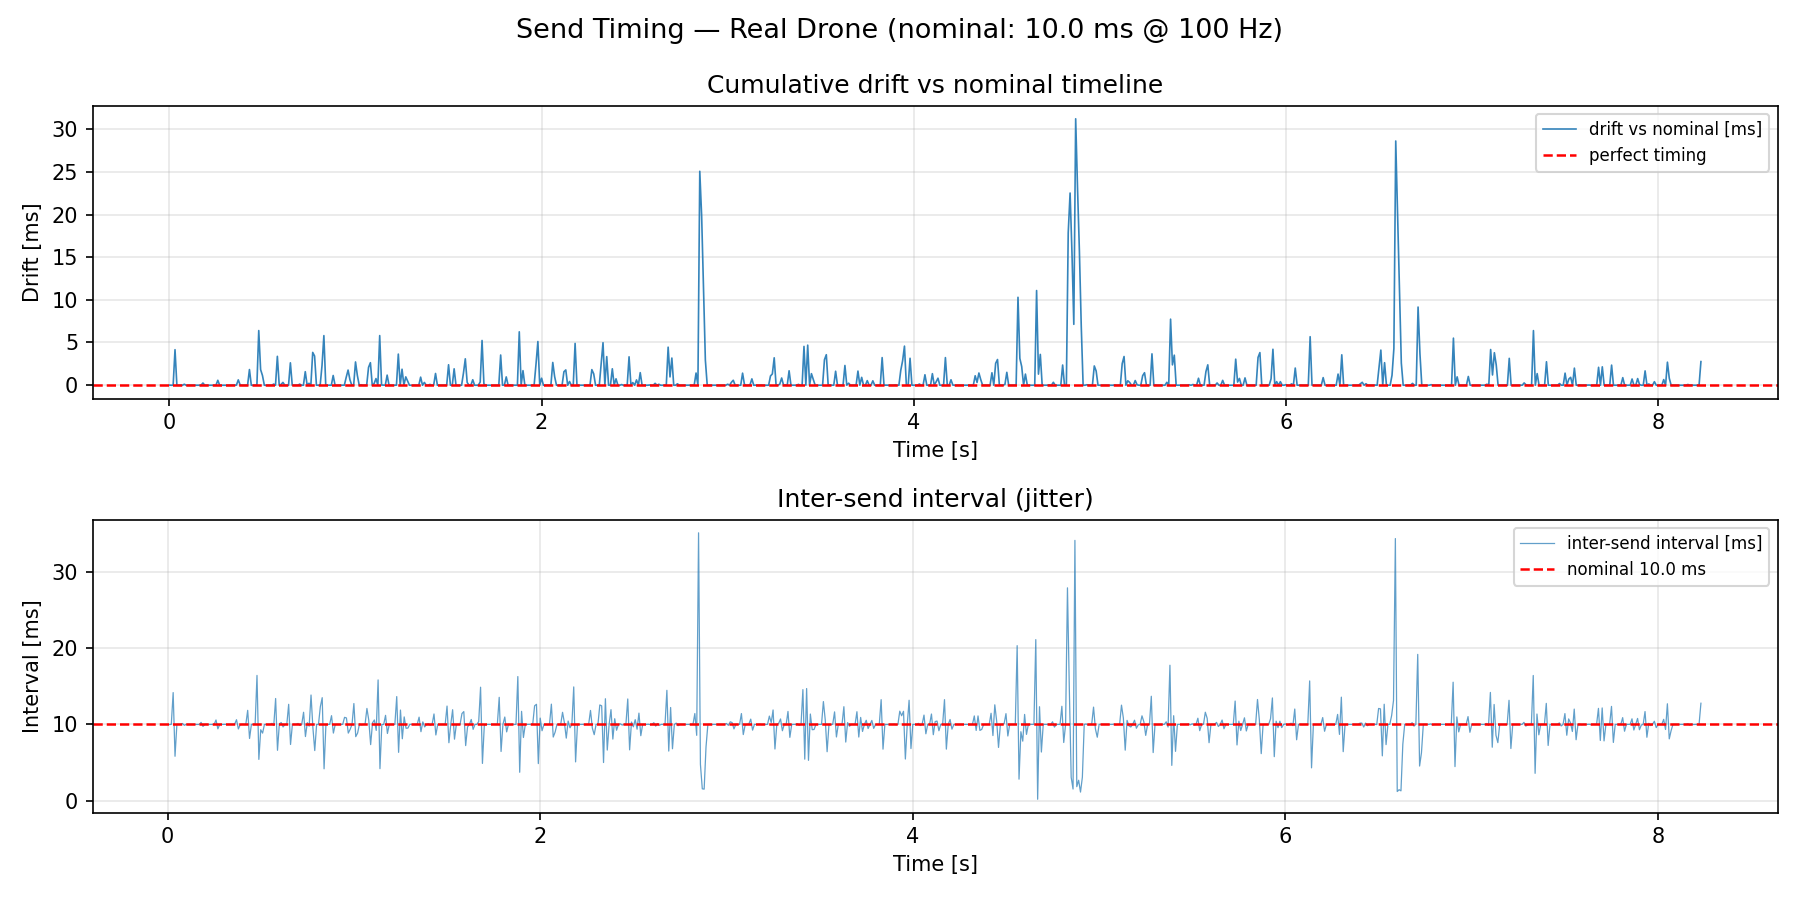
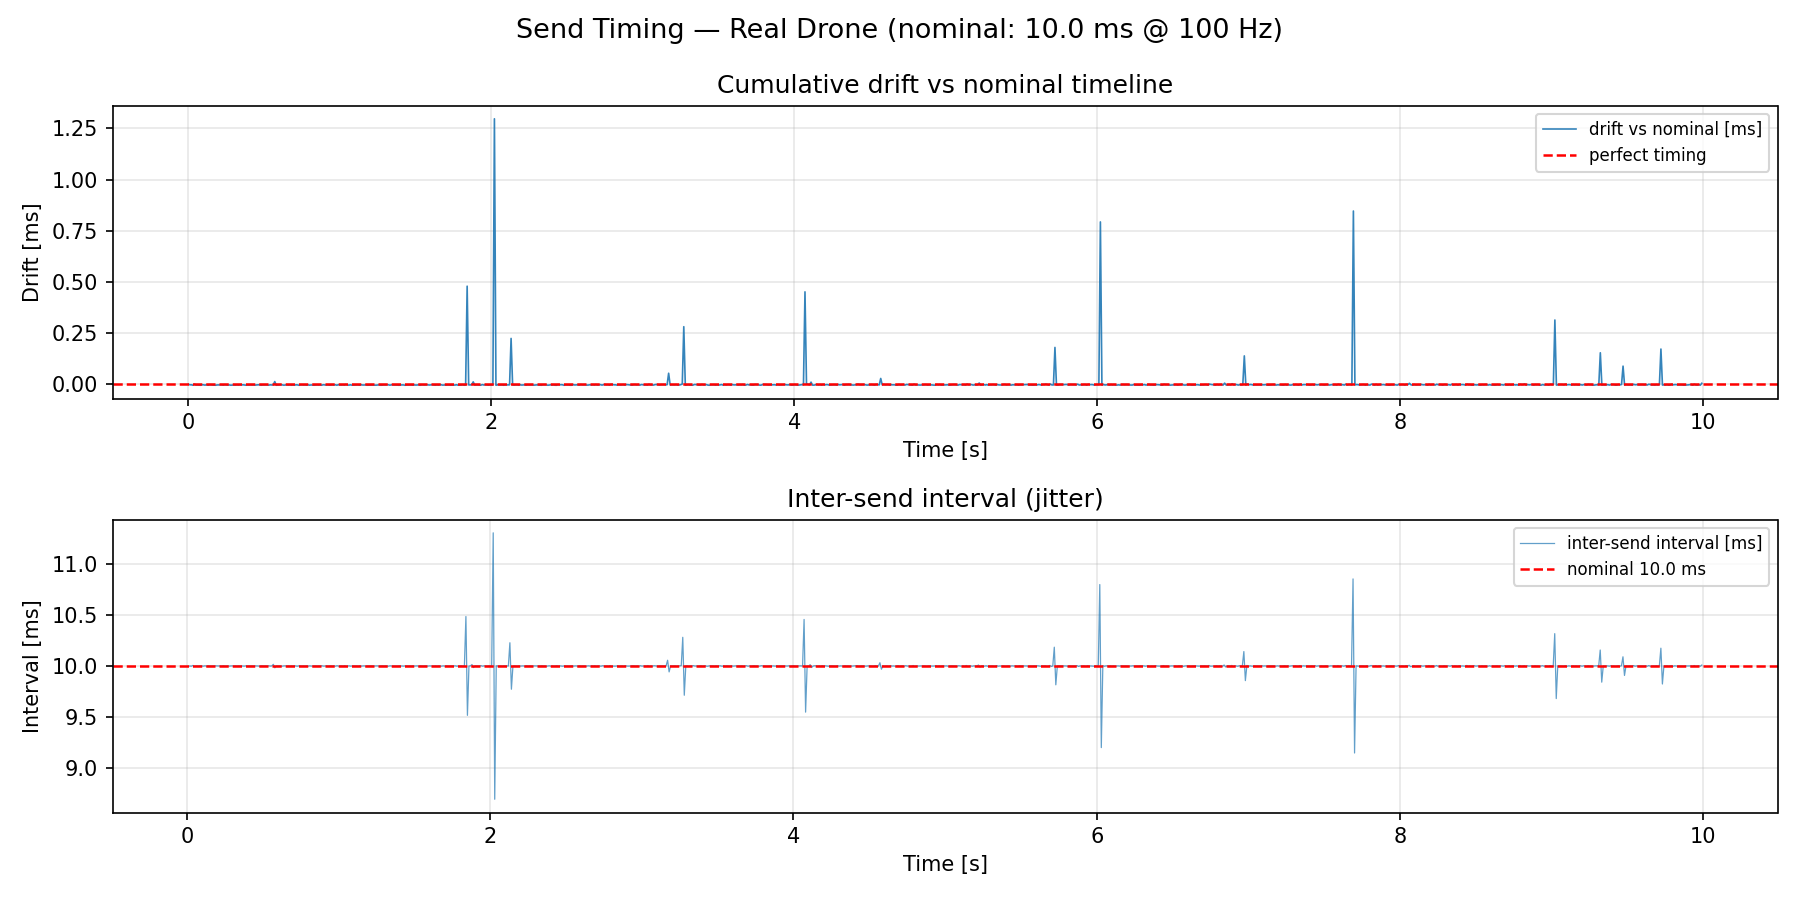
mocap worked and removed some prints

diff --git a/circle_comparison_simu_and_real/cf_firmware_pid_sim.py b/circle_comparison_simu_and_real/cf_firmware_pid_sim.py
@@ -845,11 +845,20 @@ def _natnet_streamer(cf, server_ip, client_ip, use_multicast, rigid_body_id,
         return
 
     period = (1.0 / rate_hz) if rate_hz else 0.0
+    # Watchdog thresholds (seconds)
+    RB_LOST_TIMEOUT     = 0.10   # no rigid body for 100 ms → lost
+    STREAM_LOST_TIMEOUT = 0.50   # no frame at all for 500 ms → stream down
+
     state = {
-        'last_sent': 0.0,
-        'n_frames':  0,
-        'n_sent':    0,
-        'warned_missing': False,
+        'last_sent':       0.0,
+        'last_rb_time':    None,   # last time the target rigid body was seen
+        'last_frame_time': None,   # last time any frame arrived
+        'n_rb':            0,      # frames where the target RB was present
+        'n_frames':        0,      # total frames received
+        'n_sent':          0,      # extpose packets sent to drone
+        'n_lost_events':   0,      # tracking-loss transitions
+        'tracked':         False,  # current tracking state (latched)
+        'warned_send':     False,
     }
 
     def _on_rigid_body(new_id, position, rotation):
@@ -857,30 +866,41 @@ def _natnet_streamer(cf, server_ip, client_ip, use_multicast, rigid_body_id,
             return
         x, y, z = position
         qx, qy, qz, qw = rotation
-        state['n_frames'] += 1
+        now = time.time()
+        state['n_rb'] += 1
+        state['last_rb_time'] = now
+        if not state['tracked']:
+            state['tracked'] = True
+            if state['n_lost_events'] > 0:
+                print(f"[MOCAP] Rigid body id={rigid_body_id} REGAINED "
+                      f"@ pos=({x:+.3f}, {y:+.3f}, {z:+.3f})")
         if shared is not None:
             shared['x'], shared['y'], shared['z'] = x, y, z
-            shared['count'] = state['n_frames']
+            shared['count'] = state['n_rb']
 
-        now = time.time()
         if period > 0 and (now - state['last_sent']) < period:
             return
         try:
             cf.extpos.send_extpose(x, y, z, qx, qy, qz, qw)
         except Exception as e:
-            if not state['warned_missing']:
+            if not state['warned_send']:
                 print(f"[MOCAP] send_extpose error: {e}")
-                state['warned_missing'] = True
+                state['warned_send'] = True
             return
         state['last_sent'] = now
         state['n_sent'] += 1
+
+    def _on_frame(_data_dict):
+        state['n_frames'] += 1
+        state['last_frame_time'] = time.time()
 
     client = NatNetClient()
     client.set_client_address(client_ip)
     client.set_server_address(server_ip)
     client.set_use_multicast(bool(use_multicast))
     client.rigid_body_listener = _on_rigid_body
-    #client.set_print_level(0)
+    client.new_frame_listener = _on_frame
+    client.set_print_level(0)
 
     if not client.run('d'):
         print("[MOCAP] NatNet run() failed — could not open sockets.")
@@ -909,17 +929,54 @@ def _natnet_streamer(cf, server_ip, client_ip, use_multicast, rigid_body_id,
           f"{cast_str}, rigid body id={rigid_body_id} ({rate_msg})")
 
     try:
+        warned_no_frames = False
+        warned_no_rb     = False
         while not stop_event.is_set():
-            time.sleep(0.1)
-            if state['n_frames'] == 0 and (time.time() - t0) > 3.0 \
-                    and not state['warned_missing']:
-                print(f"[MOCAP] No frames for rigid body id={rigid_body_id} "
-                      f"yet — verify the streaming ID in Motive.")
-                state['warned_missing'] = True
+            time.sleep(0.05)
+            now = time.time()
+
+            # ── Stream watchdog: no frame at all from Motive ──────────
+            if state['last_frame_time'] is None:
+                if (now - t0) > 3.0 and not warned_no_frames:
+                    print("[MOCAP] WARNING: no NatNet frames received yet "
+                          "— Motive streaming likely stopped.")
+                    warned_no_frames = True
+                continue
+
+            stream_age = now - state['last_frame_time']
+            if stream_age > STREAM_LOST_TIMEOUT:
+                if not warned_no_frames:
+                    print(f"[MOCAP] WARNING: NatNet stream stalled "
+                          f"({stream_age*1000:.0f} ms since last frame).")
+                    warned_no_frames = True
+            else:
+                if warned_no_frames:
+                    print(f"[MOCAP] NatNet stream resumed after "
+                          f"{stream_age*1000:.0f} ms gap.")
+                    warned_no_frames = False
+
+            # ── Tracking watchdog: frames arriving but no rigid body ──
+            if state['last_rb_time'] is None:
+                if (now - t0) > 3.0 and not warned_no_rb:
+                    print(f"[MOCAP] WARNING: no frames for rigid body "
+                          f"id={rigid_body_id} yet — check Motive streaming "
+                          f"ID and that the body is visible.")
+                    warned_no_rb = True
+                continue
+
+            rb_age = now - state['last_rb_time']
+            if state['tracked'] and rb_age > RB_LOST_TIMEOUT:
+                state['tracked'] = False
+                state['n_lost_events'] += 1
+                print(f"[MOCAP] *** TRACKING LOST *** rigid body id="
+                      f"{rigid_body_id} not seen for {rb_age*1000:.0f} ms "
+                      f"(stream still alive @ "
+                      f"{1.0/max(stream_age,1e-6):.0f} Hz)")
     finally:
         client.shutdown()
-        print(f"[MOCAP] Stopped ({state['n_frames']} frames received, "
-              f"{state['n_sent']} sent to drone).")
+        print(f"[MOCAP] Stopped — frames={state['n_frames']} "
+              f"rb_frames={state['n_rb']} sent={state['n_sent']} "
+              f"tracking_loss_events={state['n_lost_events']}")
 
 
 # ===================================================================

diff --git a/circle_comparison_simu_and_real/NatNetSDK/NatNetClient.py b/circle_comparison_simu_and_real/NatNetSDK/NatNetClient.py
@@ -2079,9 +2079,8 @@ class NatNetClient:
 
             offset_tmp, mocap_data = self.__unpack_mocap_data(data[offset:], packet_size, major, minor) #type: ignore  # noqa E501
             offset += offset_tmp
-            print("MoCap Frame: %d\n" % (mocap_data.prefix_data.frame_number))
-            # get a string version of the data for output
             if print_level >= 1:
+                print("MoCap Frame: %d\n" % (mocap_data.prefix_data.frame_number))
                 mocap_data_str = mocap_data.get_as_string()
                 print(" %s\n" % mocap_data_str)
 
